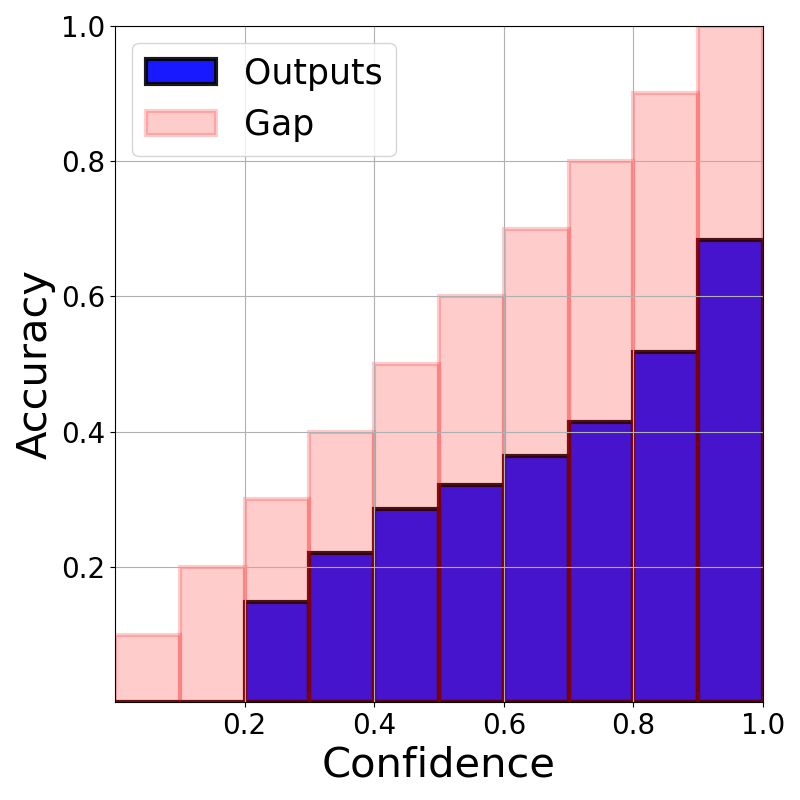
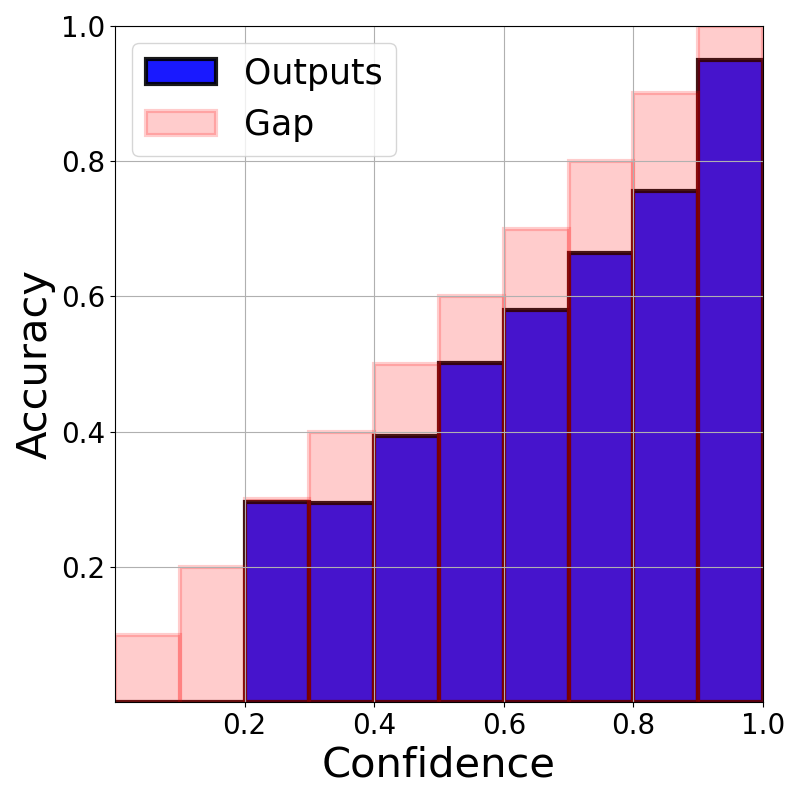
files for closed training

Changed region(s): [[0.2812, 0.0625, 0.9688, 0.7812]]

diff --git a/open-set-calibration/utils.py b/open-set-calibration/utils.py
@@ -25,8 +25,8 @@ def argparser():
 
 # preprocess image dataset
 transform_train = transforms.Compose([
-    # transforms.RandomCrop(32, padding=4),
-    # transforms.RandomHorizontalFlip(),
+    transforms.RandomCrop(32, padding=4),
+    transforms.RandomHorizontalFlip(),
     transforms.Resize(96),
     transforms.ToTensor(),
     # transforms.Normalize((0.5070, 0.4865, 0.4409), (0.2673, 0.2564, 0.2761))
@@ -37,6 +37,25 @@ transform_test = transforms.Compose([
     transforms.Resize(96),
     # transforms.Normalize((0.5070, 0.4865, 0.4409), (0.2673, 0.2564, 0.2761))
 ])
+
+
+def get_train_dataset(dataset, transform, root, target):
+    # trace()
+    if target == "cifar10" or target == "mnist":
+        return dataset(root=root, train=True, transform=transform, download=False)
+    elif target == 'svhn':
+        return dataset(root=root, split='train', transform=transform, download=False)
+    else:
+        print("dataset doesn't exist")
+
+
+def get_test_dataset(dataset, transform, root, target):
+    if target == "cifar10" or target == "mnist":
+        return dataset(root=root, train=False, transform=transform, download=False)
+    elif target == 'svhn':
+        return dataset(root=root, split='train', transform=transform, download=False)
+    else:
+        print("dataset doesn't exist")
 
 
 # def get_train_loader(target='cifar100', root='./data'):
@@ -57,14 +76,21 @@ def get_train_loader(target='cifar100', root='E:/Datasets/CIFAR10'):
         dataset = torchvision.datasets.CIFAR100
     elif target == 'svhn':
         dataset = torchvision.datasets.SVHN
+    elif target == 'mnist':
+        dataset = torchvision.datasets.MNIST
 
     transform = transform_train
     shuffle = True
     batch_size = 128
     # batch_size = 256
 
-    dataset = dataset(root=root, train=True, transform=transform, download=False)
-    train, val = torch.utils.data.random_split(dataset, [45000, 5000])
+    dataset = get_train_dataset(dataset, transform, root, target)
+    ### cifar10
+    # train, val = torch.utils.data.random_split(dataset, [45000, 5000])
+    ### svhn
+    train, val = torch.utils.data.random_split(dataset, [65931, 7326])
+    # train, val = torch.utils.data.random_split(train_modified, [int(0.9 * len(train_idxs)),
+    #                                                             len(train_idxs) - int(0.9 * len(train_idxs))])
     train_loader = torch.utils.data.DataLoader(train, batch_size=batch_size,
                                                shuffle=shuffle, num_workers=2)
     val_loader = torch.utils.data.DataLoader(val, batch_size=batch_size,
@@ -92,6 +118,8 @@ def get_test_loader(target='cifar100', root='E:/Datasets/CIFAR10'):
         dataset = torchvision.datasets.CIFAR100
     elif target == 'svhn':
         dataset = torchvision.datasets.SVHN
+    elif target == 'mnist':
+        dataset = torchvision.datasets.MNIST
 
     transform = transform_test
     shuffle = False
@@ -100,43 +128,43 @@ def get_test_loader(target='cifar100', root='E:/Datasets/CIFAR10'):
     # batch_size = 256
     # batch_size = 200
 
-    dataset = dataset(root=root, train=False, transform=transform, download=False)
+    dataset = get_test_dataset(dataset, transform, root, target)
     loader = torch.utils.data.DataLoader(dataset, batch_size=batch_size,
                                          shuffle=shuffle, num_workers=2)
     return loader
 
 
-def get_model(name, num_classes):
-    """ return model architecture for image recognition
-
-    Args:
-        name: which model architecture to use
-        num_classes: number of classes for classification
-        pretrained: whether or not to get imagenet pretrained model
-
-    Return:
-        model: neural network object to be used
-    """
-    if name == 'resnet18':
-        model = models.resnet18
-        # model = resnet18
-    elif name == 'resnet34':
-        # model = models.resnet34
-        model = resnet34
-    elif name == 'resnet50':
-        # model = models.resnet50
-        model = resnet50
-    elif name == 'resnet101':
-        # model = models.resnet101
-        model = resnet101
-    elif name == 'resnet110':
-        model = resnet110
-    elif name == 'resnet152':
-        # model = models.resnet152
-        model = resnet152
-
-    # using models.resnetxxx
-    return model(num_classes=num_classes)
+# def get_model(name, num_classes):
+#     """ return model architecture for image recognition
+#
+#     Args:
+#         name: which model architecture to use
+#         num_classes: number of classes for classification
+#         pretrained: whether or not to get imagenet pretrained model
+#
+#     Return:
+#         model: neural network object to be used
+#     """
+#     if name == 'resnet18':
+#         model = models.resnet18
+#         # model = resnet18
+#     elif name == 'resnet34':
+#         # model = models.resnet34
+#         model = resnet34
+#     elif name == 'resnet50':
+#         # model = models.resnet50
+#         model = resnet50
+#     elif name == 'resnet101':
+#         # model = models.resnet101
+#         model = resnet101
+#     elif name == 'resnet110':
+#         model = resnet110
+#     elif name == 'resnet152':
+#         # model = models.resnet152
+#         model = resnet152
+#
+#     # using models.resnetxxx
+#     return model(num_classes=num_classes)
 
     # # using resnet.py
     # return model

diff --git a/open-set-calibration/main.py b/open-set-calibration/main.py
@@ -28,6 +28,13 @@ def main():
         num_classes = 10
     elif args.dataset == 'cifar100':
         num_classes = 100
+    elif args.dataset == 'svhn':
+        num_classes = 10
+        data_name = 'SVHN'
+        num_channels = 3
+    elif args.dataset == 'mnist':
+        num_classes = 10
+
     print('num of classes: ', num_classes)
 
     device = torch.device('cuda:0' if torch.cuda.is_available else 'cpu')

diff --git a/open-set-calibration/main_partitioned.py b/open-set-calibration/main_partitioned.py
@@ -50,6 +50,8 @@ def main():
         data_name = 'MNIST'
         num_channels = 1
 
+    print('num of classes: ', num_classes)
+
     # model = get_model(args.model_type, num_classes=num_classes, num_channels=num_channels)
     model = create_model(
         # args.model,
